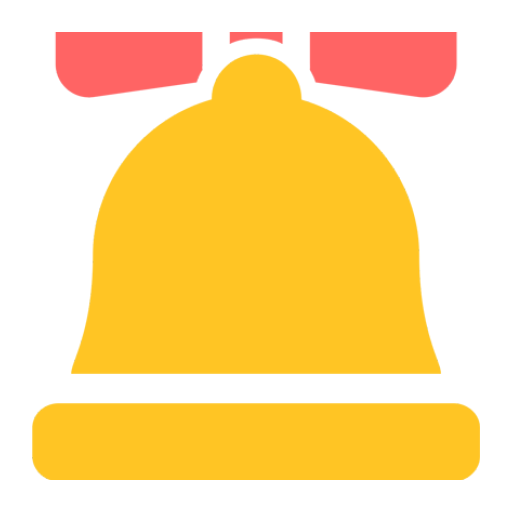
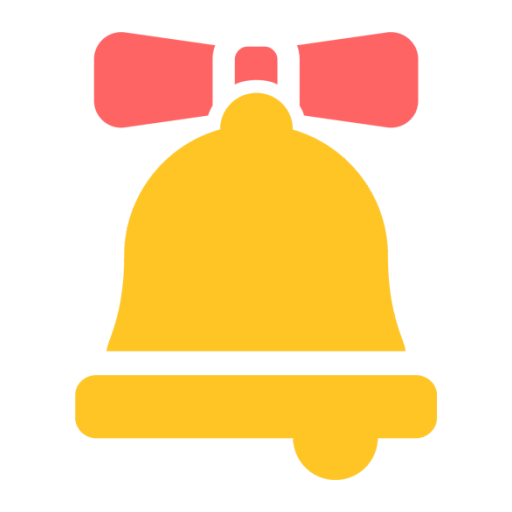
"Images size has been reduced"

Changed region(s): [[0.0625, 0.0625, 0.9375, 0.9375]]

diff --git a/app/src/main/java/com/example/ravi_gupta/slider/ActivityHelper.java b/app/src/main/java/com/example/ravi_gupta/slider/ActivityHelper.java
@@ -7,19 +7,14 @@ import android.app.ProgressDialog;
 import android.content.Context;
 import android.content.DialogInterface;
 import android.content.Intent;
-import android.graphics.Color;
 import android.location.Address;
 import android.location.Geocoder;
 import android.location.Location;
 import android.location.LocationManager;
-import android.net.ConnectivityManager;
-import android.net.NetworkInfo;
 import android.net.Uri;
-import android.os.AsyncTask;
 import android.util.Log;
-import android.view.View;
+import android.view.WindowManager;
 
-import com.example.ravi_gupta.slider.Database.DatabaseHelper;
 import com.example.ravi_gupta.slider.Database.OrderStatusDataBase;
 import com.example.ravi_gupta.slider.Location.AppLocationService;
 import com.example.ravi_gupta.slider.Models.Constants;
@@ -30,7 +25,6 @@ import com.example.ravi_gupta.slider.Repository.CustomerRepository;
 import com.example.ravi_gupta.slider.Repository.OfficeRepository;
 import com.example.ravi_gupta.slider.Repository.OrderRepository;
 import com.google.common.collect.ImmutableMap;
-import com.pnikosis.materialishprogress.ProgressWheel;
 import com.squareup.picasso.Picasso;
 import com.squareup.picasso.RequestCreator;
 import com.strongloop.android.loopback.Container;
@@ -274,13 +268,15 @@ public class ActivityHelper {
 
 
     public void launchRingDialog(MainActivity activity) {
-        ringProgressDialog = ProgressDialog.show(activity, "Please wait ...", "Loading ...", true);
-        ringProgressDialog.setCancelable(true);
+        ringProgressDialog = ProgressDialog.show(activity,"", "Fetching Pharmacies...", true);
+        ringProgressDialog.setCancelable(false);
+        //ringProgressDialog.setProgressStyle(android.R.style.Widget_ProgressBar_Small);
+        ringProgressDialog.getWindow().setFlags(WindowManager.LayoutParams.FLAG_FULLSCREEN,WindowManager.LayoutParams.FLAG_FULLSCREEN);
     }
 
     public void launchRingDialog(MainActivity activity, String body) {
-        ringProgressDialog = ProgressDialog.show(activity, "Please wait ...", body, true);
-        ringProgressDialog.setCancelable(true);
+        ringProgressDialog = ProgressDialog.show(activity,"", body, true);
+        ringProgressDialog.setCancelable(false);
 
     }
 

diff --git a/app/src/main/java/com/example/ravi_gupta/slider/Fragment/ProfileEditFragment.java b/app/src/main/java/com/example/ravi_gupta/slider/Fragment/ProfileEditFragment.java
@@ -21,8 +21,6 @@ import android.widget.EditText;
 import android.widget.ImageButton;
 import android.widget.TextView;
 
-import com.example.ravi_gupta.slider.Database.ProfileDatabase;
-import com.example.ravi_gupta.slider.Details.ProfileDetail;
 import com.example.ravi_gupta.slider.MainActivity;
 import com.example.ravi_gupta.slider.Models.Customer;
 import com.example.ravi_gupta.slider.R;
@@ -317,7 +315,11 @@ public class ProfileEditFragment extends android.support.v4.app.Fragment {
                 if (event.getAction() == KeyEvent.ACTION_UP && keyCode == KeyEvent.KEYCODE_BACK) {
                     // handle back button's click listener
                     hiddenKeyboard(customerPhone);
+                    if(fragment.equals("directHomeFragment")) {
+                        mainActivity.mDrawerLayout.setDrawerLockMode(DrawerLayout.LOCK_MODE_UNLOCKED);
+                    }
                     mainActivity.onBackPressed();
+
 
                     return true;
                 }

diff --git a/app/src/main/java/com/example/ravi_gupta/slider/Adapter/ShopListAdapter.java b/app/src/main/java/com/example/ravi_gupta/slider/Adapter/ShopListAdapter.java
@@ -90,7 +90,12 @@ public class ShopListAdapter extends ArrayAdapter<ShopListDetails> {
             holder.isReturn.setTextColor(Color.RED);
         }
         holder.deliveryTime.setText(String.valueOf(shopListDetails.deliveryTime) + " min");
-        holder.orderFulfilment.setText(String.valueOf("Order fulfilment " + shopListDetails.orderFulfilment) + "%");
+        if(shopListDetails.orderFulfilment == 0) {
+            holder.orderFulfilment.setVisibility(View.GONE);
+        }
+        else {
+            holder.orderFulfilment.setText(String.valueOf("Order fulfilment " + shopListDetails.orderFulfilment) + "%");
+        }
         //holder.icon.setImageDrawable(shopListDetails.icon);
         holder.icon.setText(firstCharacter);
         switch (counter){
